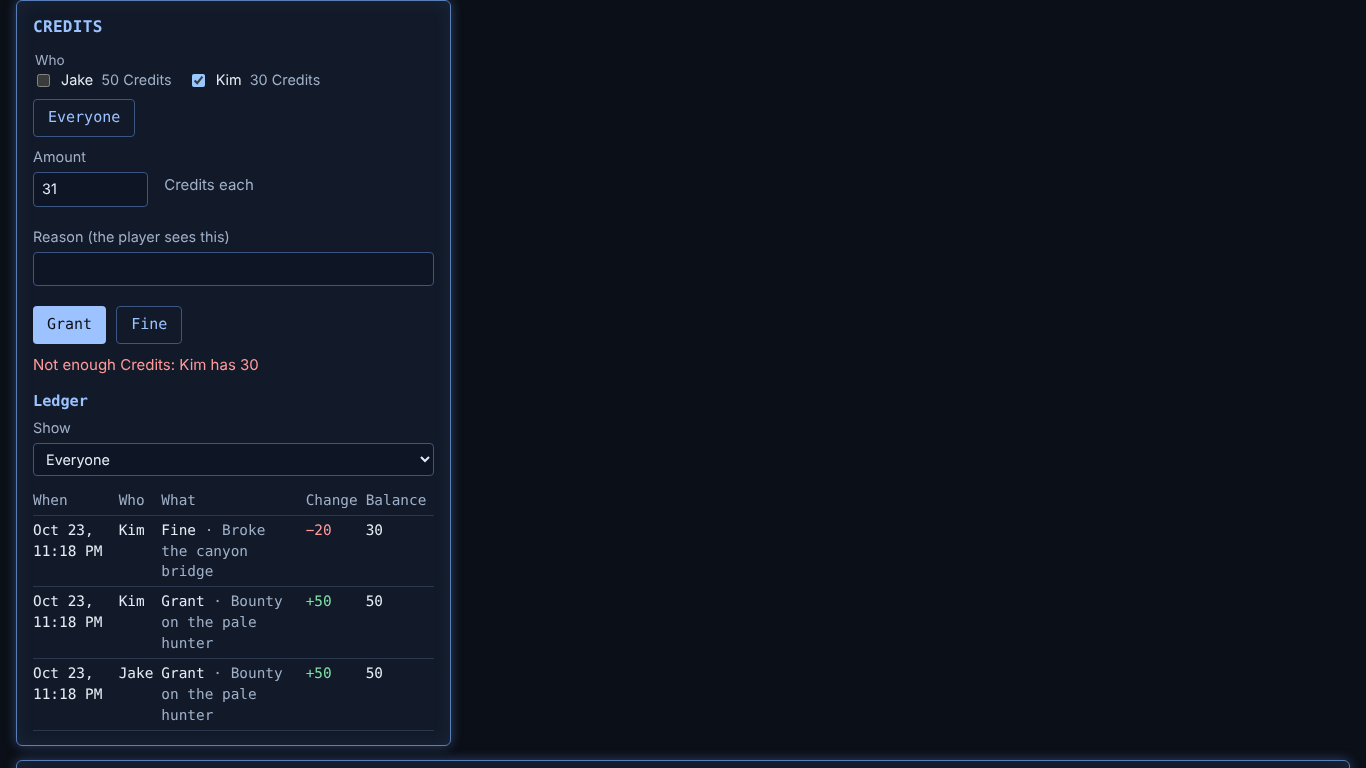
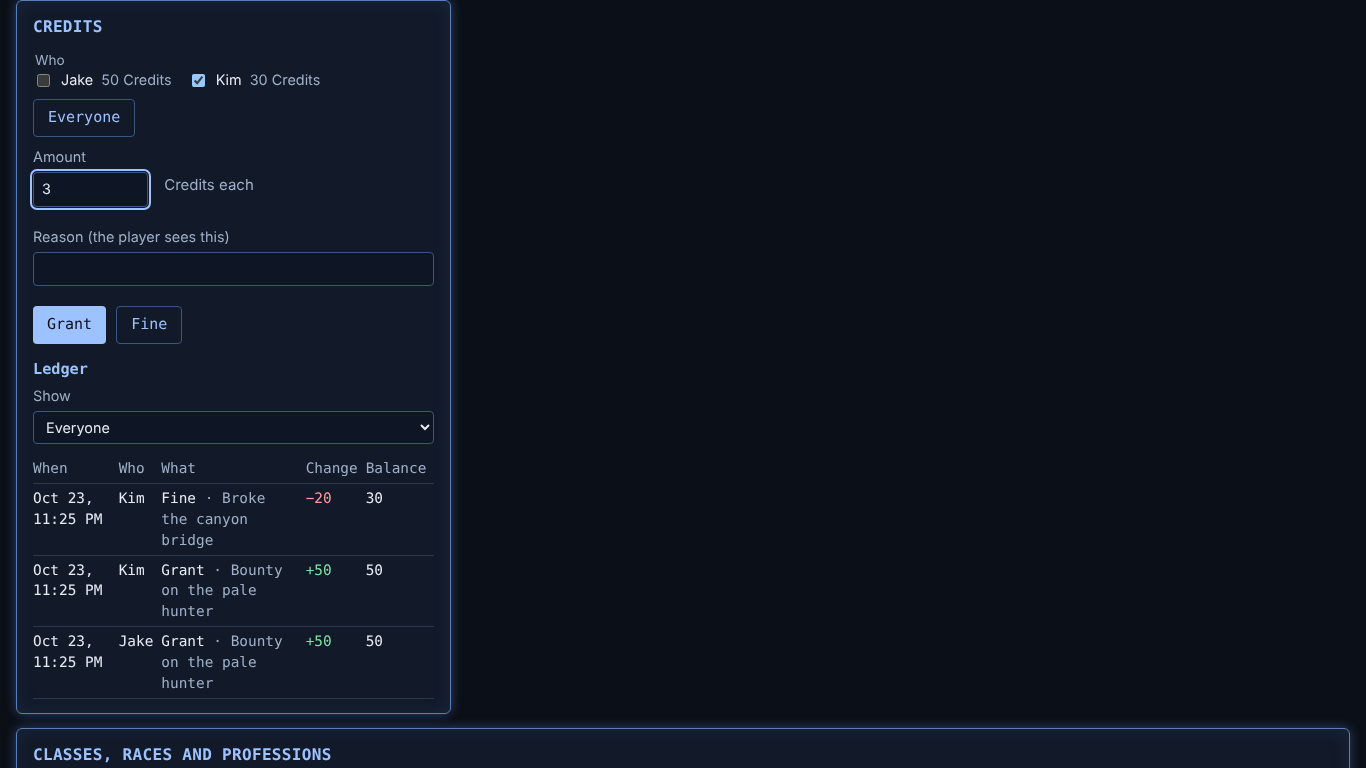
fix(M6.3): review round 1: a partial grant or fine names who it reached and keeps only the refused chosen; Enter sends nothing; stale messages clear
Claude-Session: https://claude.ai/code/session_015noKh8fX1uW8wEfeL5dhu6

diff --git a/apps/web/src/gm/CurrencyLedger.tsx b/apps/web/src/gm/CurrencyLedger.tsx
@@ -2,7 +2,14 @@ import { useState, type FormEvent } from 'react';
 import type { CampaignState } from '@the-system/engine';
 import { friendlyError } from '../format';
 import type { LiveClient } from '../live';
-import { balances, currencyCommands, ledgerRows } from './currencyModel';
+import {
+  balances,
+  currencyCommands,
+  ledgerRows,
+  parseAmount,
+  sendOutcome,
+  type SendResult,
+} from './currencyModel';
 import { shortTime } from './sessionModel';
 
 type Outcome = { ok: boolean; text: string } | null;
@@ -30,39 +37,34 @@ export function CurrencyLedger({ client, state }: { client: LiveClient; state: C
   const ledger = ledgerRows(state, shownFilter === '' ? null : shownFilter);
   const shown = all ? ledger : ledger.slice(0, LEDGER_PAGE);
 
-  const toggle = (id: string) =>
+  const toggle = (id: string) => {
+    setOutcome(null);
     setChosen(live.includes(id) ? live.filter((x) => x !== id) : [...live, id]);
+  };
   const send = async (sign: 1 | -1) => {
     const plan = currencyCommands(state, live, amount, sign, reason);
     if ('problem' in plan) return setOutcome({ ok: false, text: plan.problem });
     setBusy(true);
-    const failed: string[] = [];
+    const results: SendResult[] = [];
+    const failedIds: string[] = [];
     for (const command of plan.commands) {
+      const id = command.type === 'holdings.adjust' ? command.characterId : '';
+      const name = rows.find((row) => row.id === id)?.name ?? '';
       const r = await client.command(command);
-      if (!r.ok) {
-        const id = command.type === 'holdings.adjust' ? command.characterId : '';
-        const name = rows.find((row) => row.id === id)?.name ?? '';
-        failed.push(`${name}: ${friendlyError(r.error)}`);
-      }
+      results.push({ name, error: r.ok ? null : friendlyError(r.error) });
+      if (!r.ok) failedIds.push(id);
     }
     setBusy(false);
-    if (failed.length > 0) return setOutcome({ ok: false, text: failed.join('; ') });
-    const names = rows
-      .filter((r) => live.includes(r.id))
-      .map((r) => r.name)
-      .join(', ');
-    const n = amount.trim();
-    setOutcome({
-      ok: true,
-      text: sign > 0 ? `Granted ${n} ${currency} to ${names}` : `Fined ${names} ${n} ${currency}`,
-    });
-    setAmount('');
-    setReason('');
+    setOutcome(sendOutcome(results, parseAmount(amount) ?? 0, sign, currency));
+    // Only the refused stay chosen, so pressing again never repeats a success.
+    setChosen(failedIds);
+    if (failedIds.length === 0) {
+      setAmount('');
+      setReason('');
+    }
   };
-  const submit = (e: FormEvent) => {
-    e.preventDefault();
-    void send(1);
-  };
+  // Enter never sends: a grant and a fine each need their own button.
+  const submit = (e: FormEvent) => e.preventDefault();
 
   return (
     <section className="window currency-ledger" aria-labelledby="currency-ledger">
@@ -89,7 +91,10 @@ export function CurrencyLedger({ client, state }: { client: LiveClient; state: C
             <button
               type="button"
               className="secondary"
-              onClick={() => setChosen(live.length === rows.length ? [] : rows.map((r) => r.id))}
+              onClick={() => {
+                setOutcome(null);
+                setChosen(live.length === rows.length ? [] : rows.map((r) => r.id));
+              }}
             >
               {live.length === rows.length ? 'Clear' : 'Everyone'}
             </button>
@@ -100,7 +105,10 @@ export function CurrencyLedger({ client, state }: { client: LiveClient; state: C
               <input
                 inputMode="numeric"
                 value={amount}
-                onChange={(e) => setAmount(e.target.value)}
+                onChange={(e) => {
+                  setOutcome(null);
+                  setAmount(e.target.value);
+                }}
                 aria-describedby="currency-each"
               />
             </label>
@@ -113,7 +121,7 @@ export function CurrencyLedger({ client, state }: { client: LiveClient; state: C
             </label>
           </div>
           <div className="currency-actions">
-            <button type="submit" disabled={busy}>
+            <button type="button" disabled={busy} onClick={() => void send(1)}>
               Grant
             </button>
             <button

diff --git a/e2e/M6.3.spec.ts b/e2e/M6.3.spec.ts
@@ -78,7 +78,8 @@ test('the GM grants and fines currency; players see their own notices; the ledge
   }
 
   // A fine for Kim alone; Jake is not told.
-  await win.getByRole('button', { name: 'Clear' }).click();
+  // A send that went through leaves nobody chosen, so it cannot be repeated by accident.
+  await expect(win.getByRole('checkbox', { checked: true })).toHaveCount(0);
   await win.getByRole('checkbox', { name: /Kim/ }).check();
   await win.getByLabel('Amount').fill('20');
   await win.getByLabel('Reason (the player sees this)').fill('Broke the canyon bridge');
@@ -91,10 +92,17 @@ test('the GM grants and fines currency; players see their own notices; the ledge
   await kim.page.screenshot({ path: path.join(shots, 'player-fine-390x844.png') });
 
   // A fine above Kim's balance is refused before anything is sent.
+  await win.getByRole('checkbox', { name: /Kim/ }).check();
   await win.getByLabel('Amount').fill('31');
+  // Enter sends nothing: a grant and a fine each need their button.
+  await win.getByLabel('Amount').press('Enter');
+  await expect(win.getByRole('status')).toHaveCount(0);
   await win.getByRole('button', { name: 'Fine' }).click();
   await expect(win.getByRole('alert')).toHaveText('Not enough Credits: Kim has 30');
   await expect(win.getByTestId('currency-balance')).toHaveText(['50 Credits', '30 Credits']);
+  // Editing the amount clears the stale refusal.
+  await win.getByLabel('Amount').fill('3');
+  await expect(win.getByRole('alert')).toHaveCount(0);
 
   // The ledger shows every change, newest first, and filters by character.
   const rows = win.getByTestId('ledger-row');

diff --git a/apps/web/src/gm/currencyModel.ts b/apps/web/src/gm/currencyModel.ts
@@ -125,3 +125,35 @@ export function ledgerRows(
     detail: detailOf(state, e),
   }));
 }
+
+/** One command's result in a grant or fine sent to several characters. */
+export interface SendResult {
+  readonly name: string;
+  readonly error: string | null;
+}
+
+/**
+ * What the window says after a grant or fine (M6.3 review): who it went
+ * through for, and each refusal by name. A partial failure names both, so the
+ * GM never re-sends to someone already granted or fined.
+ */
+export function sendOutcome(
+  results: readonly SendResult[],
+  amount: number,
+  sign: 1 | -1,
+  currency: string,
+): { ok: boolean; text: string } {
+  const done = results.filter((r) => r.error === null).map((r) => r.name);
+  const failed = results.filter((r) => r.error !== null);
+  const parts: string[] = [];
+  if (done.length > 0) {
+    const names = done.join(', ');
+    parts.push(
+      sign > 0
+        ? `Granted ${amount} ${currency} to ${names}`
+        : `Fined ${names} ${amount} ${currency}`,
+    );
+  }
+  for (const r of failed) parts.push(`Not sent to ${r.name}: ${r.error ?? ''}`);
+  return { ok: failed.length === 0, text: parts.join('. ') };
+}

diff --git a/apps/web/test/currencyModel.test.ts b/apps/web/test/currencyModel.test.ts
@@ -7,6 +7,7 @@ import {
   currencyCommands,
   ledgerRows,
   parseAmount,
+  sendOutcome,
   signed,
 } from '../src/gm/currencyModel';
 
@@ -104,5 +105,26 @@ describe('currency model (M6.3)', () => {
       'Fined 20 Credits by the GM',
     );
     expect(matchesFilter({ ...base, amount: 1, reason: '' }, 'items')).toBe(true);
+  });
+
+  it('names who a send went through for and each refusal (partial failure)', () => {
+    expect(
+      sendOutcome(
+        [
+          { name: 'Jake', error: null },
+          { name: 'Kim', error: 'Not enough Credits (has 4)' },
+        ],
+        30,
+        -1,
+        'Credits',
+      ),
+    ).toEqual({
+      ok: false,
+      text: 'Fined Jake 30 Credits. Not sent to Kim: Not enough Credits (has 4)',
+    });
+    expect(sendOutcome([{ name: 'Jake', error: null }], 7, 1, 'Credits')).toEqual({
+      ok: true,
+      text: 'Granted 7 Credits to Jake',
+    });
   });
 });
